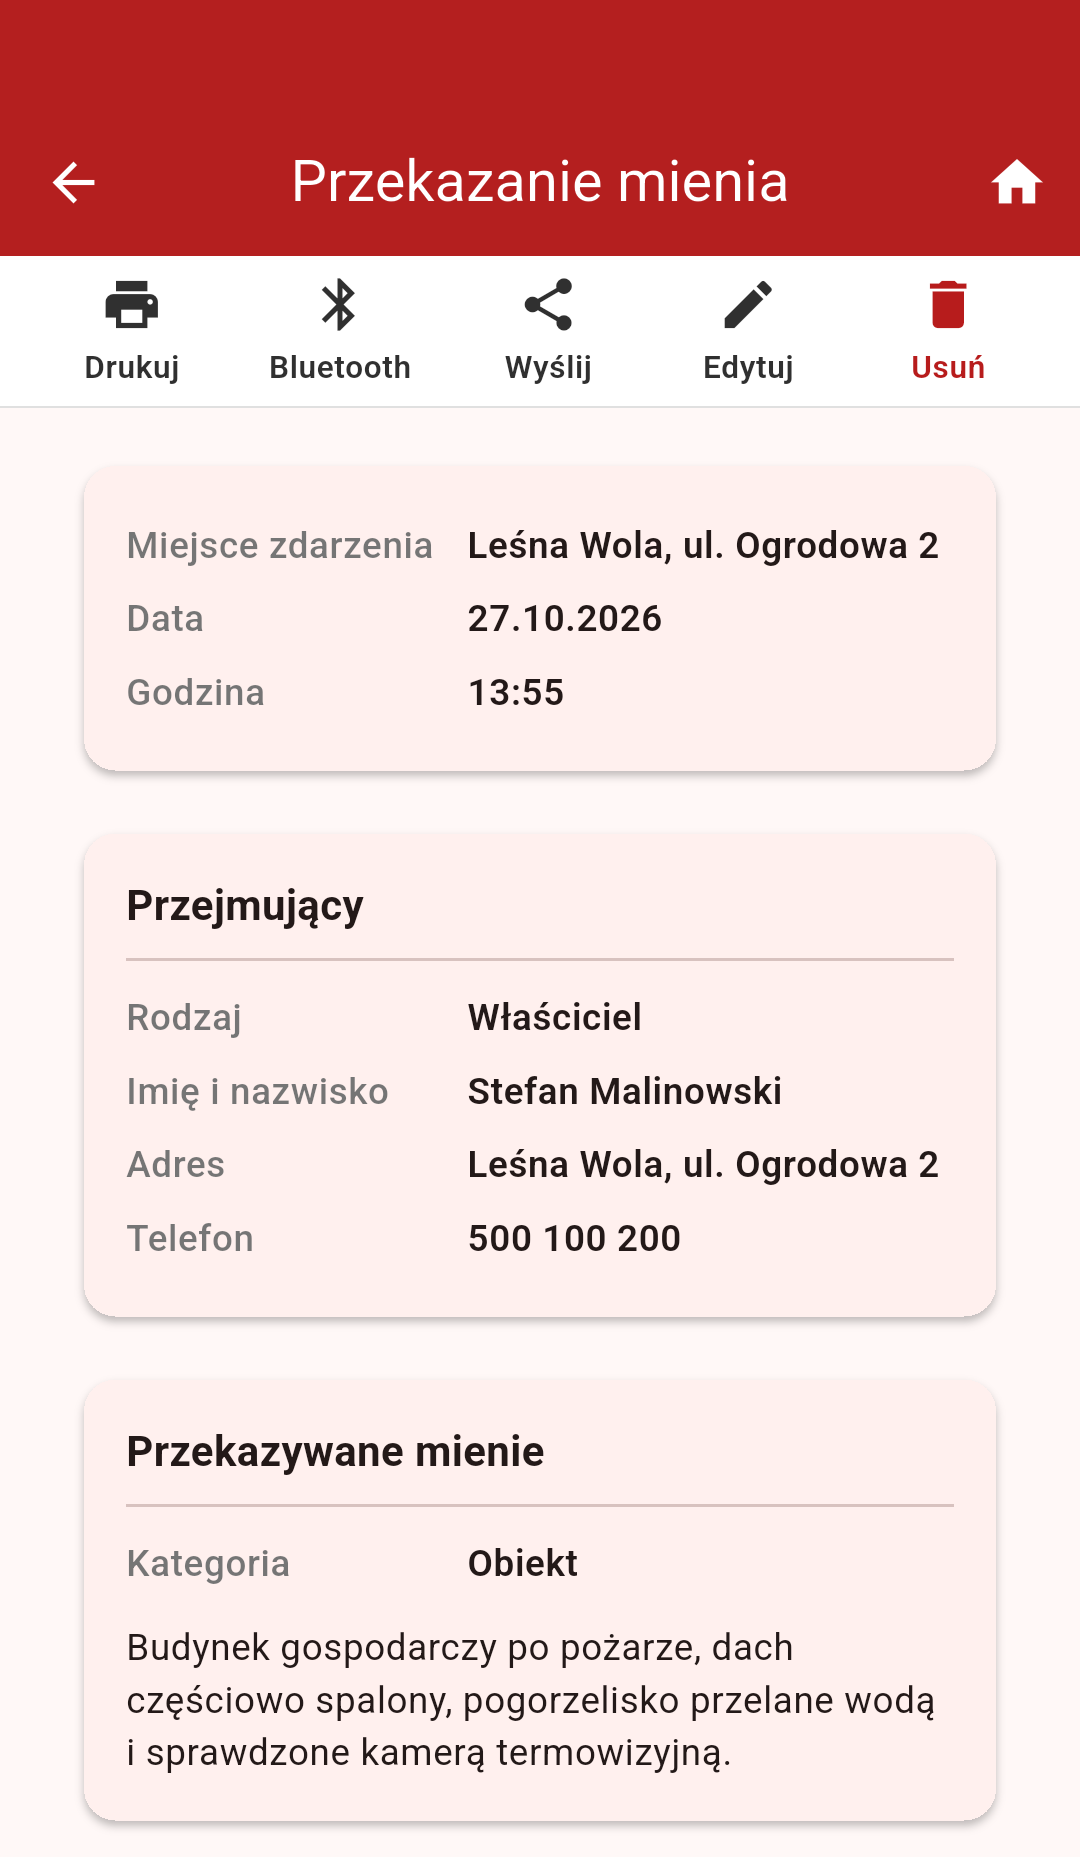
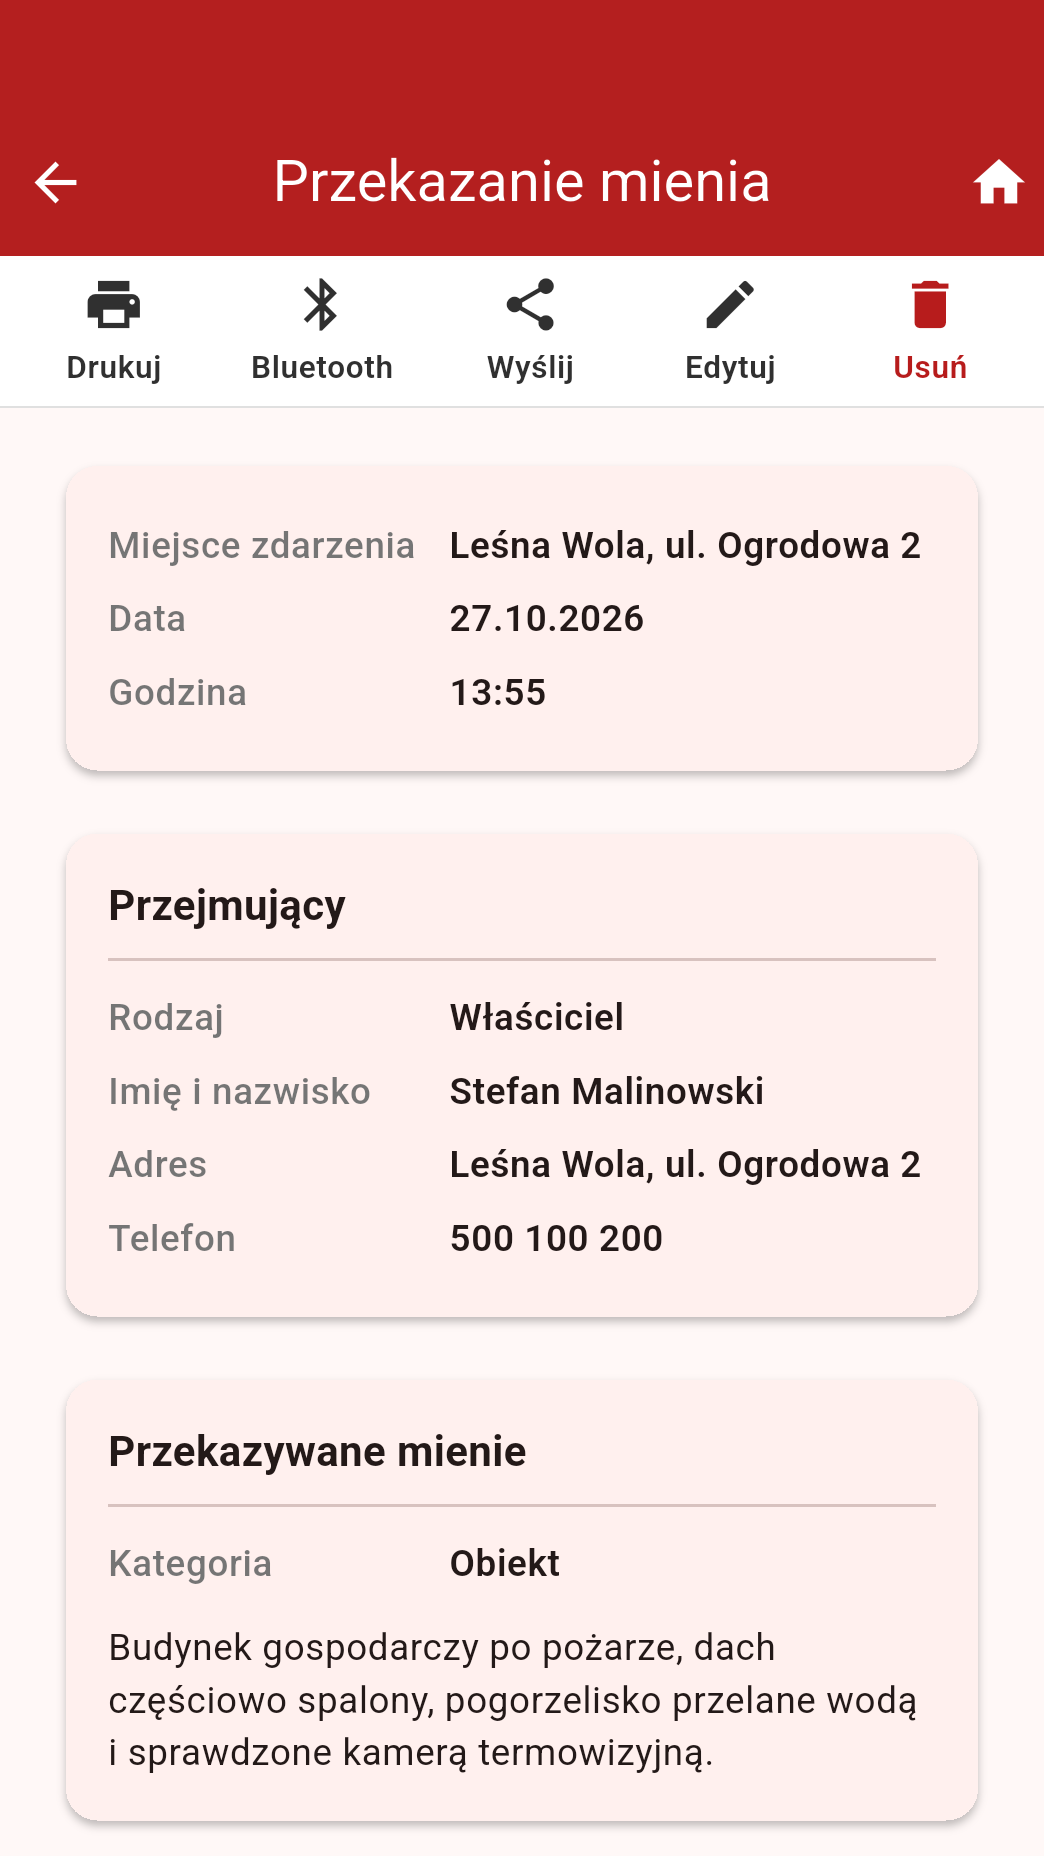
chore/071: zrzuty z tabletu 7" i 10", wszystkie zrzuty przyciete do 9:16
Play wymaga proporcji 16:9 albo 9:16; pola tabletow maja gwiazdke.

diff --git a/integration_test/store_screenshots_test.dart b/integration_test/store_screenshots_test.dart
@@ -14,8 +14,8 @@ import 'package:osp_app/services/database_service.dart';
 /// robi sterownik `test_driver/store_screenshots.dart` i zapisuje je
 /// w `build/store_screenshots/`.
 ///
-/// Uruchamianie (emulator, czyste dane, ekran 9:16 — Play przyjmuje
-/// proporcje najwyżej 2:1, a emulator ma 20:9):
+/// Uruchamianie (emulator, czyste dane, ekran 9:16 — Play wymaga proporcji
+/// 16:9 albo 9:16, a emulator ma 20:9):
 ///
 /// ```
 /// adb shell pm clear pl.osp.osp_app
@@ -24,6 +24,12 @@ import 'package:osp_app/services/database_service.dart';
 ///   --target=integration_test/store_screenshots_test.dart -d emulator-5554
 /// adb shell wm size reset
 /// ```
+///
+/// Tablety (chore/071): to samo przy `wm size 1080x1920` + `wm density 270`
+/// (7") i `wm size 1440x2560` + `wm density 240` (10"); potem
+/// `adb shell wm density reset`. Zrzut nie obejmuje paska gestów, więc
+/// wychodzi trochę niższy niż ekran — przycięty do dokładnie 9:16 (po
+/// kilkanaście pikseli z boków) leży w `store/zrzuty*`.
 void main() {
   final binding = IntegrationTestWidgetsFlutterBinding.ensureInitialized();
 

diff --git a/store/sklep-play.md b/store/sklep-play.md
@@ -62,10 +62,19 @@ Pytania, błędy i pomysły: raporty.osp@gmail.com
 |---|---|
 | Ikona aplikacji (512 × 512) | `store/grafiki/ikona-512.png` |
 | Grafika (1024 × 500) | `store/grafiki/grafika-1024x500.png` (źródło: `store/grafika-1024x500.html`) |
-| Zrzuty ekranu telefonu (2–8) | `store/zrzuty/*.png`, 1080 × 1920, w kolejności nazw |
+| Zrzuty ekranu telefonu (2–8) | `store/zrzuty/*.png`, 1044 × 1856 (9:16), w kolejności nazw |
+| Zrzuty z 7-calowego tabletu | `store/zrzuty-tablet-7/*.png`, 1044 × 1856 (9:16) |
+| Zrzuty z 10-calowego tabletu | `store/zrzuty-tablet-10/*.png`, 1413 × 2512 (9:16) |
 
 Zrzuty robi `integration_test/store_screenshots_test.dart` na zmyślonych
-danych (instrukcja w pliku). Zrzutów tabletu Play nie wymaga.
+danych (instrukcja w pliku). Play wymaga proporcji dokładnie 16:9 albo 9:16
+(20.11.2026: pola tabletów z gwiazdką), więc zrzuty są przycięte do 9:16
+(po kilkanaście pikseli z boków). Ekrany: telefon `wm size 1080x1920`,
+tablet 7" `1080x1920` przy `wm density 270` (ok. 640 dp szerokości),
+tablet 10" `1440x2560` przy `wm density 240` (ok. 960 dp).
+
+Deklaracja zasobów z AI: „Nie oznaczaj zasobów etykietami” — zrzuty to zwykłe
+zrzuty aplikacji, ikona i grafika są wektorowe/HTML, nie z generatora obrazów.
 
 **Kategoria i kontakt** (Rozwój → Ustawienia sklepu):
 
